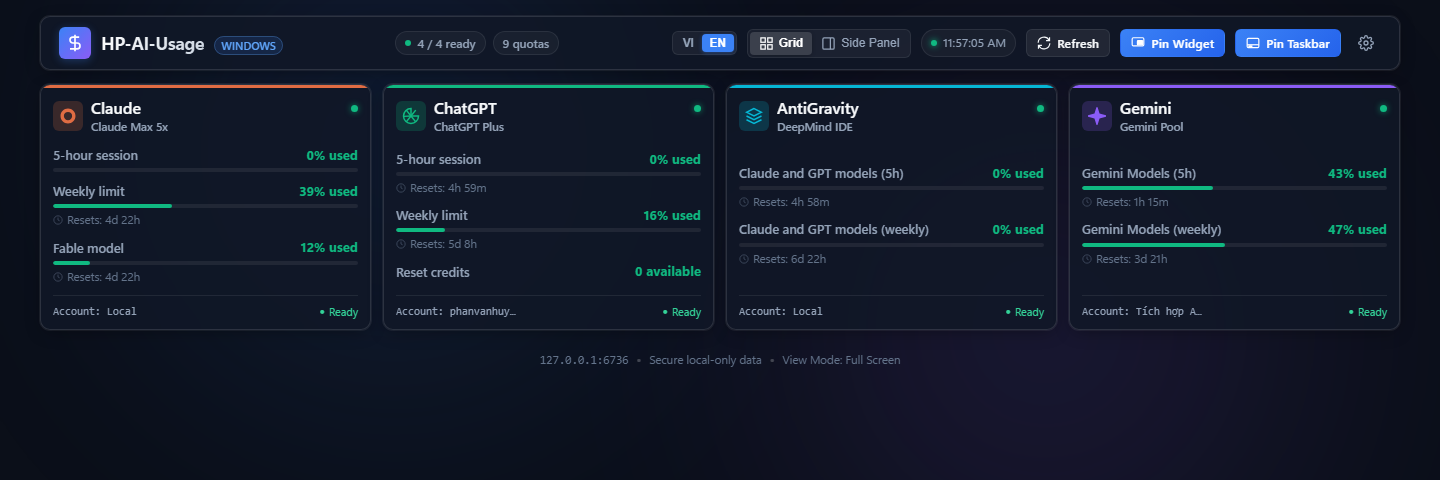
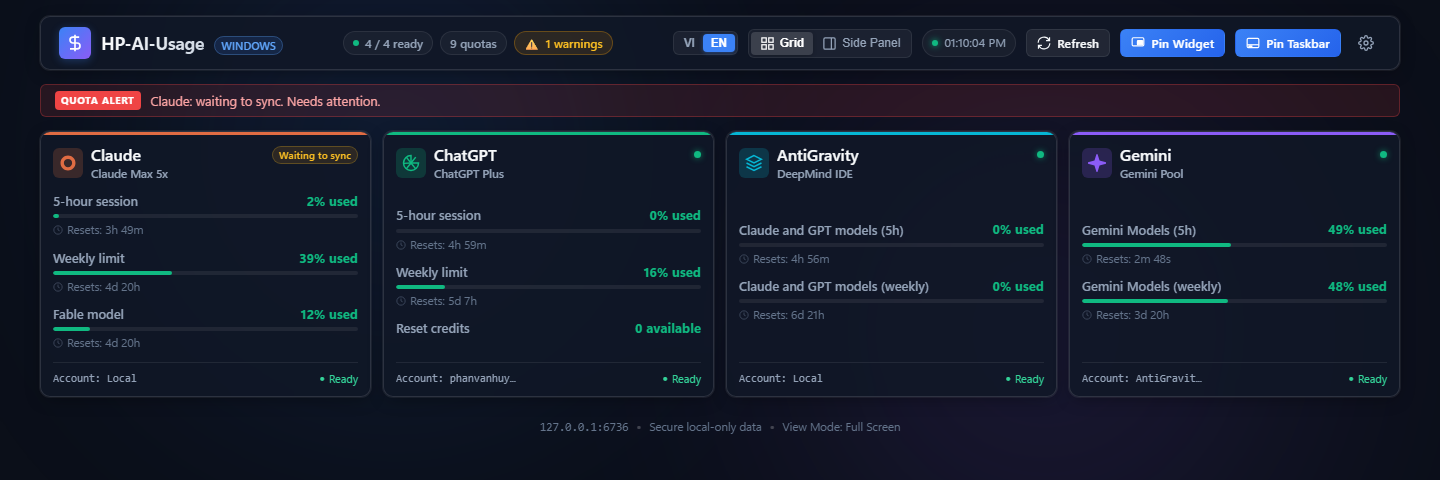
docs: cap nhat anh chup thanh tac vu va man hinh tong hop hoan toan bang tieng Anh

diff --git a/public/app.js b/public/app.js
@@ -915,9 +915,12 @@ document.addEventListener('DOMContentLoaded', () => {
         // Footer
         const footer = document.createElement('div');
         footer.className = 'card-footer';
-        const accountText = (p.account === 'Cục bộ' || p.account === 'Phiên cục bộ (Active)')
-            ? (currentLang === 'en' ? 'Local' : 'Cục bộ')
-            : (p.account || (currentLang === 'en' ? 'Local' : 'Cục bộ'));
+        let accountText = p.account || (currentLang === 'en' ? 'Local' : 'Cục bộ');
+        if (p.account === 'Cục bộ' || p.account === 'Phiên cục bộ (Active)') {
+            accountText = currentLang === 'en' ? 'Local' : 'Cục bộ';
+        } else if (p.account === 'Tích hợp AntiGravity') {
+            accountText = currentLang === 'en' ? 'AntiGravity IDE' : 'Tích hợp AntiGravity';
+        }
 
         const statusClass = p.status === 'active' ? 'ready' : 'pending';
         const statusText = p.status === 'active' ? dict.statusReady : dict.statusPending;
